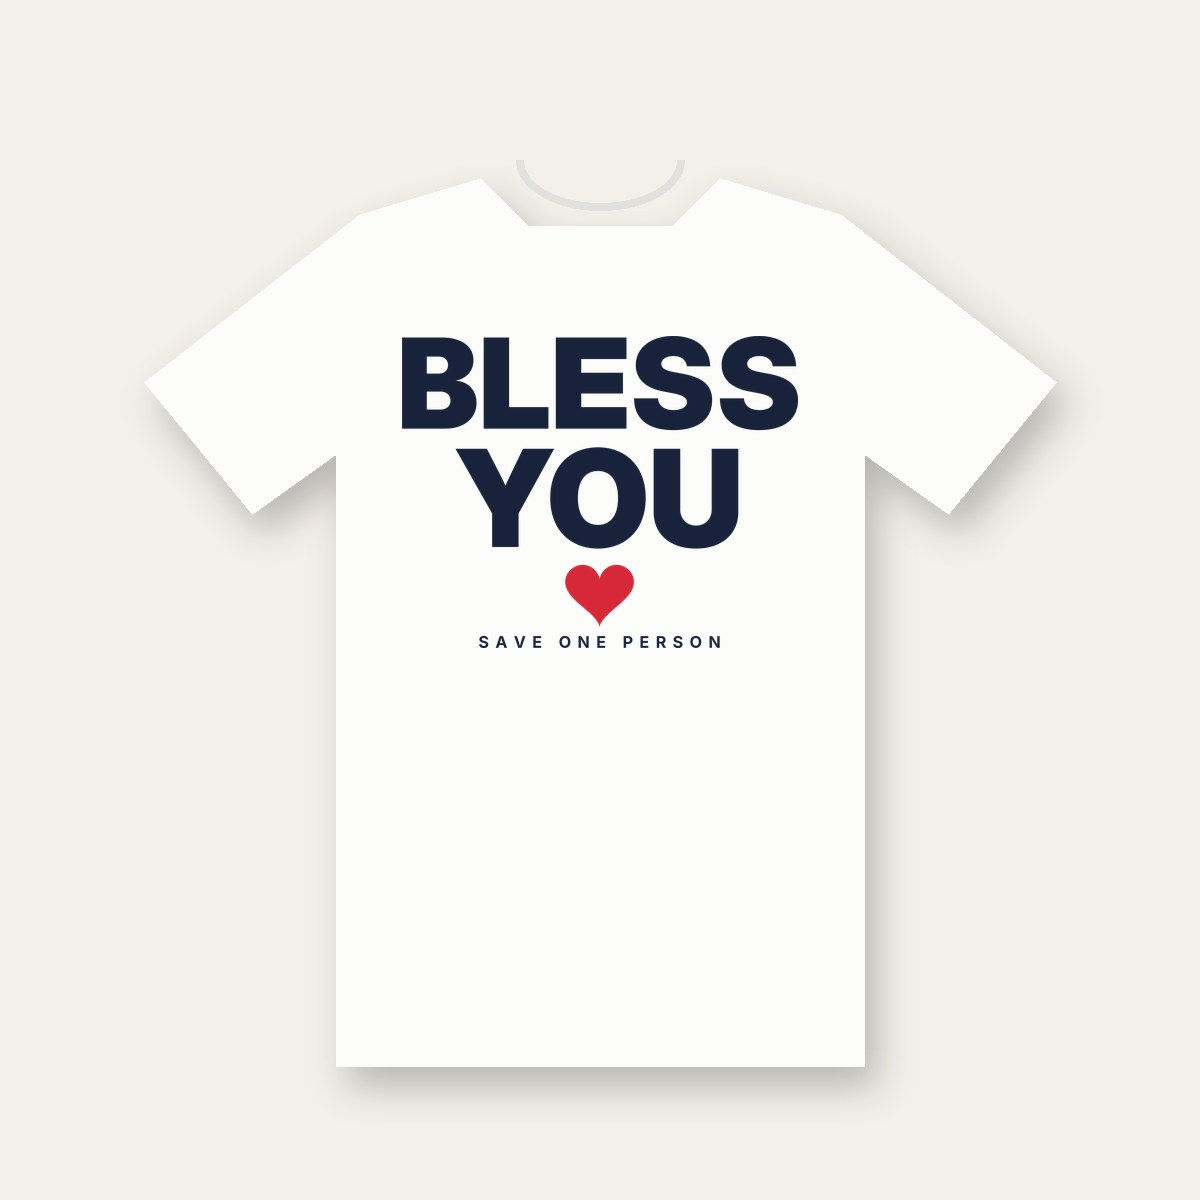
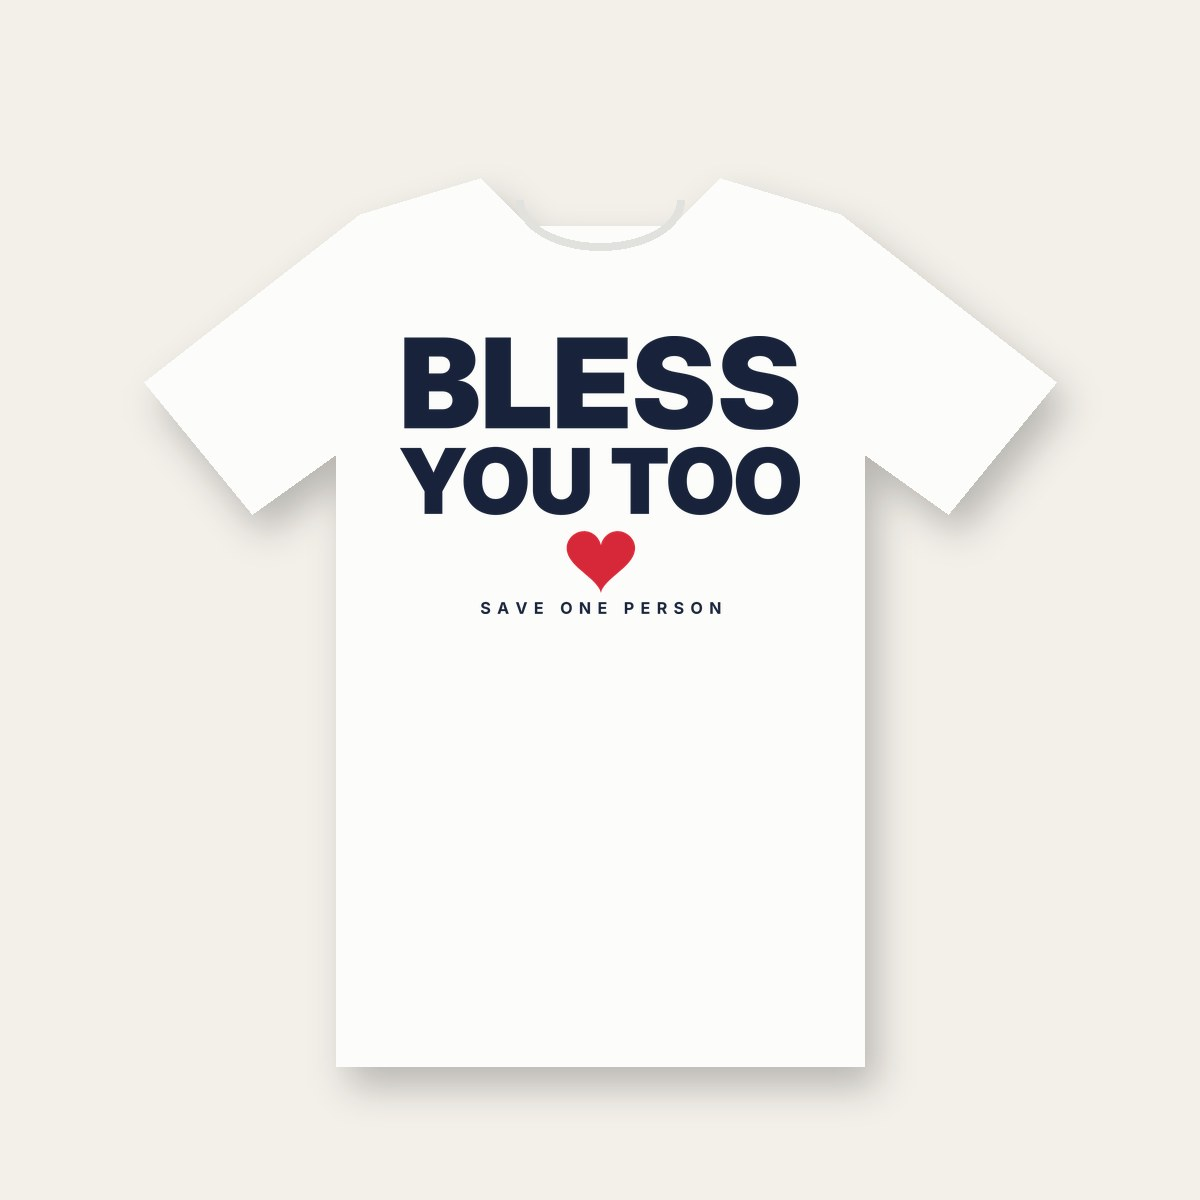
Shop: Go Bless Yourself collection (tee w/ BLESS YOU TOO back, hoodie, hat, tote, mug); drop 'double chai' wording
Claude-Session: https://claude.ai/code/session_01QWtLC1mkNnbDAXSud88d3K

diff --git a/src/lib/shop/staticProducts.ts b/src/lib/shop/staticProducts.ts
@@ -1,48 +1,101 @@
-import type { ShopProduct } from './types'
+import type { ShopProduct, ShopVariant, ShopImage } from './types'
 
-// Products added in code (made with Printful, sold through Shopify checkout).
-const SIZES: [string, number][] = [
-  ['XS', 67815534002346], ['S', 67815534035114], ['M', 67815534067882], ['L', 67815534100650], ['XL', 67815534133418],
-  ['2XL', 67815534166186], ['3XL', 67815534198954], ['4XL', 67815534231722], ['5XL', 67815534264490],
-]
+// "Go Bless Yourself" collection, made by Printful and sold through Shopify checkout.
+// shopify ids are the Shopify variant ids shown in Printful.
 
-export const STATIC_PRODUCTS: ShopProduct[] = [
-  {
-    id: 'static-go-bless-yourself-tee',
-    handle: 'go-bless-yourself-t-shirt',
-    title: 'Go Bless Yourself T-Shirt',
-    body_html:
-      '<p><strong>GO BLESS YOURSELF</strong> on the front. <strong>BLESS YOU</strong> on the back.</p>' +
-      '<p>Wear the message, share the blessing. Every shirt supports Save One Person, helping patients find the living donors they need. Priced at $36, double chai, a blessing of life.</p>' +
-      '<ul><li>Soft 100% ring-spun cotton</li><li>Classic unisex fit</li><li>White, sizes XS to 5XL</li><li>Printed just for you when you order</li></ul>',
-    description_text:
-      'GO BLESS YOURSELF on the front. BLESS YOU on the back. Every shirt supports Save One Person. $36, double chai, a blessing of life.',
+function variants(key: string, price: number, list: [string, number][]): ShopVariant[] {
+  return list.map(([title, shopifyId], i) => ({
+    id: `static-${key}-${title.toLowerCase().replace(/\s+/g, '-')}`,
+    shopify_id: shopifyId,
+    title,
+    option1: title,
+    option2: null,
+    option3: null,
+    sku: null,
+    price,
+    compare_at_price: null,
+    available: true,
+    requires_shipping: true,
+    taxable: true,
+    position: i,
+  }))
+}
+
+function images(key: string, list: [string, string][]): ShopImage[] {
+  return list.map(([url, alt], i) => ({ id: `static-${key}-img-${i}`, url, alt, width: 1200, height: 1200, position: i }))
+}
+
+const MISSION = 'Every purchase supports Save One Person, helping patients find the living donors they need.'
+
+function product(p: {
+  key: string; handle: string; title: string; position: number; optionName: string
+  lead: string; bullets: string[]; v: ShopVariant[]; img: ShopImage[]
+}): ShopProduct {
+  return {
+    id: `static-${p.key}`,
+    handle: p.handle,
+    title: p.title,
+    body_html: `<p>${p.lead}</p><p>${MISSION}</p><ul>${p.bullets.map((b) => `<li>${b}</li>`).join('')}</ul>`,
+    description_text: `${p.lead.replace(/<[^>]+>/g, '')} ${MISSION}`,
     vendor: 'Save One Person',
     product_type: 'Apparel',
-    tags: ['tee', 'apparel'],
-    options: [{ name: 'Size', values: SIZES.map(([s]) => s) }],
-    featured: true,
-    position: -1,
-    seo_title: 'Go Bless Yourself T-Shirt | Save One Person',
-    seo_description: 'White tee: GO BLESS YOURSELF on the front, BLESS YOU on the back. $36, double chai. Every shirt supports Save One Person.',
-    variants: SIZES.map(([size, shopifyId], i) => ({
-      id: `static-gby-${size.toLowerCase()}`,
-      shopify_id: shopifyId,
-      title: size,
-      option1: size,
-      option2: null,
-      option3: null,
-      sku: null,
-      price: 36,
-      compare_at_price: null,
-      available: true,
-      requires_shipping: true,
-      taxable: true,
-      position: i,
-    })),
-    images: [
-      { id: 'static-gby-front', url: '/images/shop/go-bless-yourself-front.jpg', alt: 'White T-shirt, front: GO BLESS YOURSELF with a red heart', width: 1200, height: 1200, position: 0 },
-      { id: 'static-gby-back', url: '/images/shop/go-bless-yourself-back.jpg', alt: 'White T-shirt, back: BLESS YOU, red heart, SAVE ONE PERSON', width: 1200, height: 1200, position: 1 },
-    ],
-  },
+    tags: ['go bless yourself', 'apparel'],
+    options: [{ name: p.optionName, values: p.v.map((x) => x.title || '') }],
+    featured: p.key === 'tee',
+    position: p.position,
+    seo_title: `${p.title} | Save One Person`,
+    seo_description: `${p.lead.replace(/<[^>]+>/g, '')} ${MISSION}`,
+    variants: p.v,
+    images: p.img,
+  }
+}
+
+export const STATIC_PRODUCTS: ShopProduct[] = [
+  product({
+    key: 'tee', handle: 'go-bless-yourself-t-shirt', title: 'Go Bless Yourself T-Shirt', position: -5, optionName: 'Size',
+    lead: '<strong>GO BLESS YOURSELF</strong> on the front. <strong>BLESS YOU TOO</strong> on the back.',
+    bullets: ['Soft 100% ring-spun cotton', 'Classic unisex fit', 'White, sizes XS to 5XL', 'Printed just for you when you order'],
+    v: variants('gby', 36, [
+      ['XS', 67815534002346], ['S', 67815534035114], ['M', 67815534067882], ['L', 67815534100650], ['XL', 67815534133418],
+      ['2XL', 67815534166186], ['3XL', 67815534198954], ['4XL', 67815534231722], ['5XL', 67815534264490],
+    ]),
+    img: images('gby', [
+      ['/images/shop/go-bless-yourself-front.jpg', 'White T-shirt, front: GO BLESS YOURSELF with a red heart'],
+      ['/images/shop/go-bless-yourself-back.jpg', 'White T-shirt, back: BLESS YOU TOO, red heart, SAVE ONE PERSON'],
+    ]),
+  }),
+  product({
+    key: 'hoodie', handle: 'go-bless-yourself-hoodie', title: 'Go Bless Yourself Hoodie', position: -4, optionName: 'Size',
+    lead: '<strong>GO BLESS YOURSELF</strong> on the front. <strong>BLESS YOU</strong> on the back.',
+    bullets: ['Soft cotton-poly fleece', 'Front pouch pocket and roomy hood', 'White, sizes S to 5XL', 'Printed just for you when you order'],
+    v: variants('hoodie', 52, [
+      ['S', 67815643709610], ['M', 67815643742378], ['L', 67815643775146], ['XL', 67815643807914],
+      ['2XL', 67815643840682], ['3XL', 67815643873450], ['4XL', 67815643906218], ['5XL', 67815643938986],
+    ]),
+    img: images('hoodie', [
+      ['/images/shop/hoodie-front.jpg', 'White hoodie, front: GO BLESS YOURSELF with a red heart'],
+      ['/images/shop/hoodie-back.jpg', 'White hoodie, back: BLESS YOU, red heart, SAVE ONE PERSON'],
+    ]),
+  }),
+  product({
+    key: 'hat', handle: 'go-bless-yourself-hat', title: 'Go Bless Yourself Hat', position: -3, optionName: 'Size',
+    lead: '<strong>GO BLESS YOURSELF</strong>, embroidered in navy on a white dad hat.',
+    bullets: ['100% cotton twill, soft and unstructured', 'Adjustable strap, one size fits most', 'Embroidered just for you when you order'],
+    v: variants('hat', 36, [['One size', 67815635255466]]),
+    img: images('hat', [['/images/shop/hat.jpg', 'White dad hat embroidered GO BLESS YOURSELF in navy']]),
+  }),
+  product({
+    key: 'tote', handle: 'go-bless-yourself-tote-bag', title: 'Go Bless Yourself Tote Bag', position: -2, optionName: 'Size',
+    lead: '<strong>GO BLESS YOURSELF</strong> on a natural organic cotton tote.',
+    bullets: ['100% organic cotton', 'Roomy enough for groceries, books and more', 'Printed just for you when you order'],
+    v: variants('tote', 30, [['One size', 67815638991018]]),
+    img: images('tote', [['/images/shop/tote.jpg', 'Natural cotton tote bag printed GO BLESS YOURSELF']]),
+  }),
+  product({
+    key: 'mug', handle: 'go-bless-yourself-mug', title: 'Go Bless Yourself Mug', position: -1, optionName: 'Size',
+    lead: '<strong>GO BLESS YOURSELF</strong> on both sides of a glossy white mug.',
+    bullets: ['11 oz ceramic, glossy finish', 'Dishwasher and microwave safe', 'Printed just for you when you order'],
+    v: variants('mug', 20, [['11 oz', 67820996067498]]),
+    img: images('mug', [['/images/shop/mug.jpg', 'White mug printed GO BLESS YOURSELF']]),
+  }),
 ]

diff --git a/src/lib/shop/organize.ts b/src/lib/shop/organize.ts
@@ -15,13 +15,13 @@ const RENAME: Record<string, string> = {
   "is there a god? one woman's fast track to the divine: from despair to bliss without drugs": "Is There a God? One Woman's Fast Track to the Divine",
 }
 
-export const SECTIONS = ['Give', 'Wear', 'Read', 'Healing & Wellness', 'Planning & Services'] as const
+export const SECTIONS = ['Give', 'Wear & Gifts', 'Read', 'Healing & Wellness', 'Planning & Services'] as const
 export type Section = (typeof SECTIONS)[number]
 
 export function sectionOf(p: Pick<ShopProduct, 'title' | 'product_type' | 'tags'>): Section {
   const t = `${p.title} ${p.product_type || ''} ${(p.tags || []).join(' ')}`.toLowerCase()
   if (/donat/.test(t)) return 'Give'
-  if (/apparel|t-shirt|tee\b/.test(t)) return 'Wear'
+  if (/apparel|t-shirt|tee\b/.test(t)) return 'Wear & Gifts'
   if (/counsel|nutrition|healing|theta/.test(t)) return 'Healing & Wellness'
   if (/\bbook\b|brochure|guide|save me, save the world|is there a god/.test(t)) return 'Read'
   if (/publiciz|asset|legacy|long-term care|coverage|insurance/.test(t)) return 'Planning & Services'

diff --git a/src/app/(public)/shop/page.tsx b/src/app/(public)/shop/page.tsx
@@ -54,8 +54,8 @@ export default async function ShopPage() {
           </p>
           <div className="shop-hero-actions">
             <a href="#donate" className="btn btn-emerald shop-hero-donate">Donate Now</a>
-            <Link href="/shop/go-bless-yourself-t-shirt" className="shop-hero-new">
-              <span className="tag">New</span> The Go Bless Yourself Tee <span aria-hidden="true">→</span>
+            <Link href="/shop#wear-gifts" className="shop-hero-new">
+              <span className="tag">New</span> The Go Bless Yourself Collection <span aria-hidden="true">→</span>
             </Link>
           </div>
         </div>
